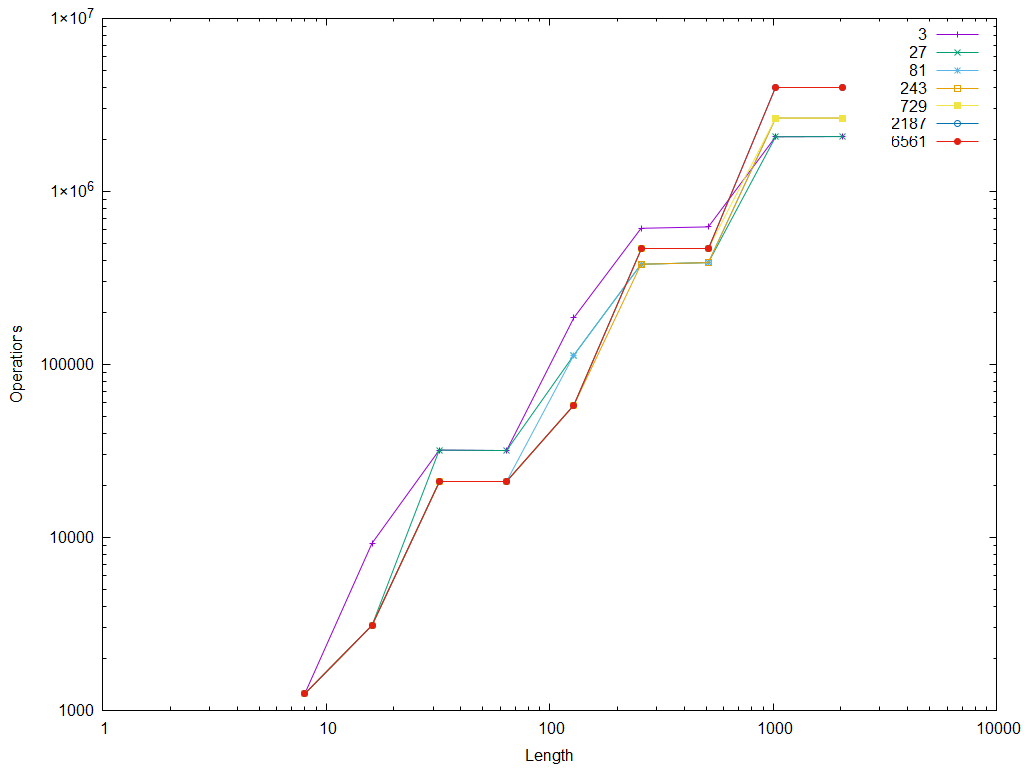
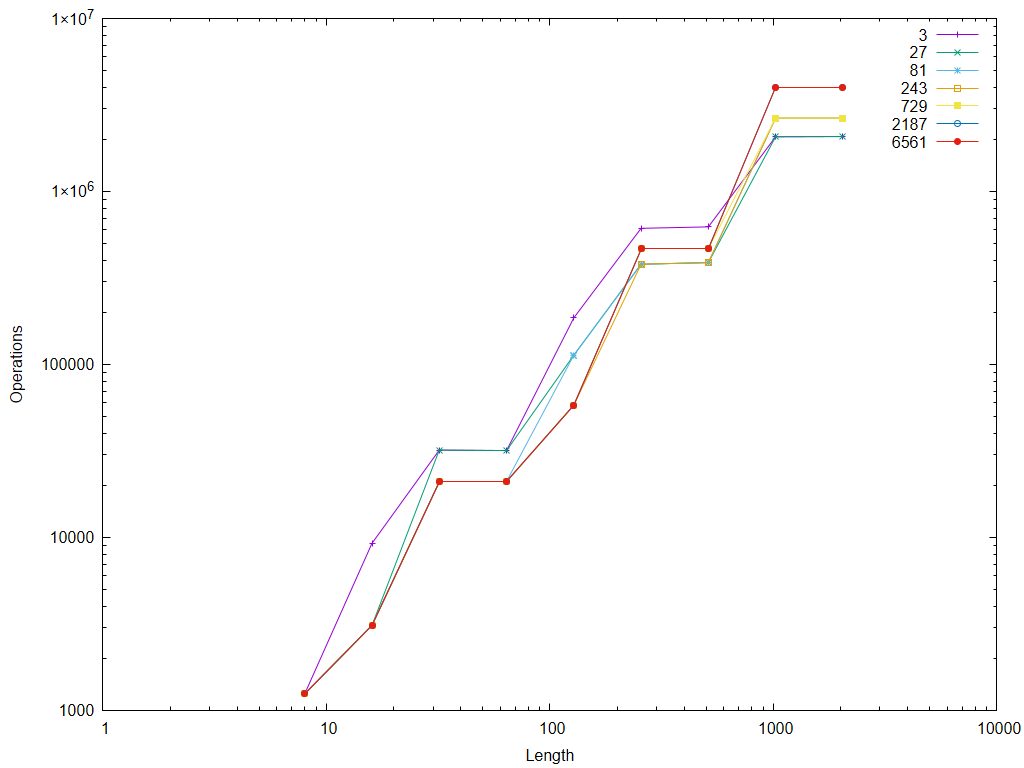
rebuild plots, fix benchmarks

diff --git a/main.cpp b/main.cpp
@@ -91,13 +91,16 @@ void benchmark_multiplication(std::string out_prefix, unsigned method) {
 		for (size_t i = 0; i < 7; ++i) {
 			std::string o_name = out_prefix + std::to_string(initial) + std::string(".txt");
 			std::ofstream o(o_name);
-			for (size_t j = 0; j < 8; ++j) {
+			for (size_t j = 0; j < 14; ++j) {
 				unsigned q = 1 << field_sizes[j];
 				galois_field gf(field_sizes[j], field_generators[j], field_sizes[j]);
 				gf._naive_mult_karatsuba= initial;
 				gf.reset_counters();
-				std::vector<unsigned> a(q, 1), b(q, 1), c(2 * q);
-				
+				std::vector<unsigned> a(2 * q, 1), b(2 * q, 1), c(2 * q);
+				for (size_t k = 0; k < 2*q; ++k) {
+					b[k] = ((((k + j) + 12) * 3) % 7) * 100 % (q - 1);
+					a[k] = ((((k + j) + 47) * 3) % 7) * 100 % (q - 1);
+				}
 				gf.karatsuba_multiplication(a, b, c, q, 0);
 				o << q << " " << gf._additions << " " << gf._multiplications << "\n";
 			}
@@ -131,7 +134,7 @@ void benchmark_multiplication(std::string out_prefix, unsigned method) {
 		unsigned initial = 1;
 		std::string o_name = out_prefix + std::to_string(initial) + std::string(".txt");
 		std::ofstream o(o_name);
-		for (size_t j = 0; j < 11; ++j) {
+		for (size_t j = 0; j < 14; ++j) {
 			unsigned q = 1 << field_sizes[j];
 			galois_field gf(field_sizes[j], field_generators[j], field_sizes[j]);
 			gf._karatsuba_mult_gao_mateer = initial;
@@ -144,7 +147,7 @@ void benchmark_multiplication(std::string out_prefix, unsigned method) {
 				e[k] = gf.multiply(c[k], d[k]);
 			}
 			gf.gao_mateer_ifft(e, f, m);
-			o << q / 2 << " " << gf._additions << " " << gf._multiplications << "\n";
+			o << q << " " << gf._additions << " " << gf._multiplications << "\n";
 		}
 		//initial *= 3;
 	}
@@ -158,66 +161,63 @@ void benchmark_multiplication(std::string out_prefix, unsigned method) {
 // 4: decoder type: 0 - interpolation decoder, 1 - berlecamp-massey decoder
 int main(int argc, char* argv[])
 {
-	//double k_rate, err_rate;
-	//int type;
-	//std::ofstream out("interpolation_results_0_5rate_max_errs_long.txt");
-	////out << "hello\n";
-	//if (false) {
-	//	if (argc != 4) {
-	//		std::cout << "expected 3 args: output file, code rate (from 0 to 1), error rate (from 0 to 1)\n";
-	//		return -1;
-	//	}
-	//	try {
-	//		k_rate = std::stod(argv[2]);
-	//		err_rate = std::stod(argv[3]);
-	//		type = std::stoi(argv[4]);
-	//	}
-	//	catch (std::invalid_argument const& e) {
-	//		std::cout << "could not parse numeric args: " << e.what();
-	//		return -1;
-	//	}
-	//}
-	//else {
-	//	k_rate = 0.5;
-	//	err_rate = 0.9;
-	//	type = 0;
-	//}
-	//if (out.bad()) {
-	//	std::cout << "could not open input file\n";
-	//	return -1;
-	//}
+	double k_rate, err_rate;
+	int type;
+	std::ofstream out("interpolation_results_0_5rate_max_errs_long.txt");
+	//out << "hello\n";
+	if (false) {
+		if (argc != 4) {
+			std::cout << "expected 3 args: output file, code rate (from 0 to 1), error rate (from 0 to 1)\n";
+			return -1;
+		}
+		try {
+			k_rate = std::stod(argv[2]);
+			err_rate = std::stod(argv[3]);
+			type = std::stoi(argv[4]);
+		}
+		catch (std::invalid_argument const& e) {
+			std::cout << "could not parse numeric args: " << e.what();
+			return -1;
+		}
+	}
+	else {
+		k_rate = 0.5;
+		err_rate = 0.9;
+		type = 0;
+	}
+	if (out.bad()) {
+		std::cout << "could not open input file\n";
+		return -1;
+	}
+	out << "n, k, err num, additions, multiplications\n";
+	//////galois_field gf2(7, 0x83, 7);
+	//////test_decoder(gf2, 127, 11, 15);
+	////galois_field gf(3, 0xb, 3);
+	std::vector<unsigned> field_sizes = { 3, 4, 5, 6, 7, 8, 9, 10, 11, 12, 13, 14, 15, 16};
+	std::vector<unsigned> field_generators = { 0xb, 0x13, 0x25, 0x43, 0x83, 0x11d, 0x211, 0x409, 0x805, 0x1053, 0x201b, 0x4143, 0x8003, 0x1100b };
+	//// 2 2
+	for (size_t i = 0; i < field_sizes.size(); ++i) {
+		galois_field gf(field_sizes[i], field_generators[i], field_sizes[i]);
+		unsigned n = (1 << field_sizes[i]) - 1;
+		unsigned k = n * k_rate;
+		unsigned t = ((n - k) / 2) * err_rate;
+		if (type == 0) {
+			InterpolationBasedFastRSDecoder decoder(std::move(gf), n, k);
+			test_decoder(decoder, n, k, t, 1, out);
+		}
+		else if (type == 1) {
+			encoding::bch_decoder decoder(std::move(gf), n, k, 2, n - k + 1, 1);
+			std::cout << "here\n";
+			test_decoder(decoder, n, k, t, 1, out);
+			//test_decoder(decoder, 511, 256, t, 10, out);
+		}
+		else {
+			std::cout << "unknown decoder type\n";
+			return -1;
+		}
+	}
 
-	//out << "n, k, err num, additions, multiplications\n";
-	////////galois_field gf2(7, 0x83, 7);
-
-	////////test_decoder(gf2, 127, 11, 15);
-
-	//////galois_field gf(3, 0xb, 3);
-	//std::vector<unsigned> field_sizes = { 3, 4, 5, 6, 7, 8, 9, 10, 11, 12, 13, 14, 15, 16};
-	//std::vector<unsigned> field_generators = { 0xb, 0x13, 0x25, 0x43, 0x83, 0x11d, 0x211, 0x409, 0x805, 0x1053, 0x201b, 0x4143, 0x8003, 0x1100b };
-	////// 2 2
-	//for (size_t i = 0; i < field_sizes.size(); ++i) {
-	//	galois_field gf(field_sizes[i], field_generators[i], field_sizes[i]);
-	//	unsigned n = (1 << field_sizes[i]) - 1;
-	//	unsigned k = n * k_rate;
-	//	unsigned t = ((n - k) / 2) * err_rate;
-	//	if (type == 0) {
-	//		InterpolationBasedFastRSDecoder decoder(std::move(gf), n, k);
-	//		test_decoder(decoder, n, k, t, 1, out);
-	//	}
-	//	else if (type == 1) {
-	//		encoding::bch_decoder decoder(std::move(gf), n, k, 2, n - k + 1, 1);
-	//		std::cout << "here\n";
-	//		test_decoder(decoder, n, k, t, 1, out);
-	//		//test_decoder(decoder, 511, 256, t, 10, out);
-	//	}
-	//	else {
-	//		std::cout << "unknown decoder type\n";
-	//		return -1;
-	//	}
-	//}
-
-	benchmark_multiplication("gao_mateer", 3);
+	//benchmark_multiplication("karatsuba", 1);
 	return 0;
 
 	

diff --git a/fast_interpolation_reed_solomon_decoder/galois_field.cpp b/fast_interpolation_reed_solomon_decoder/galois_field.cpp
@@ -862,7 +862,7 @@ std::vector<unsigned>& galois_field::karatsuba_multiplication(std::vector<unsign
 	unsigned deg_a = degree(a), deg_b = degree(b);
 	unsigned log_a = sizeof(unsigned) * 8 - std::countl_zero(deg_a - 1);
 	unsigned log_b = sizeof(unsigned) * 8 - std::countl_zero(deg_b - 1);
-	if (length <= _naive_mult_karatsuba/* || ((log_a * log_a / 2 >= std::min(deg_b, length) || log_b * log_b / 2 >= std::min(deg_a, length))) || std::min(deg_a, deg_b) <= 3*/) {
+	if (length <= _naive_mult_karatsuba || ((log_a * log_a / 2 >= std::min(deg_b, length) || log_b * log_b / 2 >= std::min(deg_a, length))) || std::min(deg_a, deg_b) <= 3) {
 		for (size_t i = 0; i < std::min(deg_a + 1, length); ++i) {
 			for (size_t j = 0; j < std::min(deg_b + 1, length); ++j) {
 				dst[i + j] = add(dst[i + j], multiply(a[i], b[j]));
@@ -881,7 +881,6 @@ std::vector<unsigned>& galois_field::karatsuba_multiplication(std::vector<unsign
 		for (size_t i = 0; i < (1 << m); ++i) {
 			tmp[2][i] = multiply(tmp[0][i], tmp[1][i]);
 		}
-
 		gao_mateer_ifft(tmp[2], tmp[3], m);
 		/*for (size_t i = 0; i < 3; ++i) {
 			std::fill(_karatsuba_tmp[0][i].begin(), _karatsuba_tmp[0][i].begin() + _n, 0);
@@ -889,6 +888,7 @@ std::vector<unsigned>& galois_field::karatsuba_multiplication(std::vector<unsign
 		std::copy(tmp[3].begin(), tmp[3].begin() + std::min((size_t)length << 1, dst.size()), dst.begin());
 		return dst;
 	}
+
 	//else if (length <= (_q >> 1) && length >= _q / 8) {
 	//	for (size_t i = 0; i < 4; ++i) {
 	//		std::fill(tmp[i].begin(), tmp[i].begin() + _n, 0);

diff --git a/fast_interpolation_reed_solomon_decoder/galois_field.h b/fast_interpolation_reed_solomon_decoder/galois_field.h
@@ -164,7 +164,7 @@ public:
 	unsigned _naive_mult_schonhage = 27;
 	unsigned _naive_mult_karatsuba = 16;
 	unsigned _karatsuba_mult_schonhage = 256;
-	unsigned _karatsuba_mult_gao_mateer = 256;
+	unsigned _karatsuba_mult_gao_mateer = 1024;
 	unsigned _naive_mult_logarithmic_mult_mateer = 256;
 
 };
